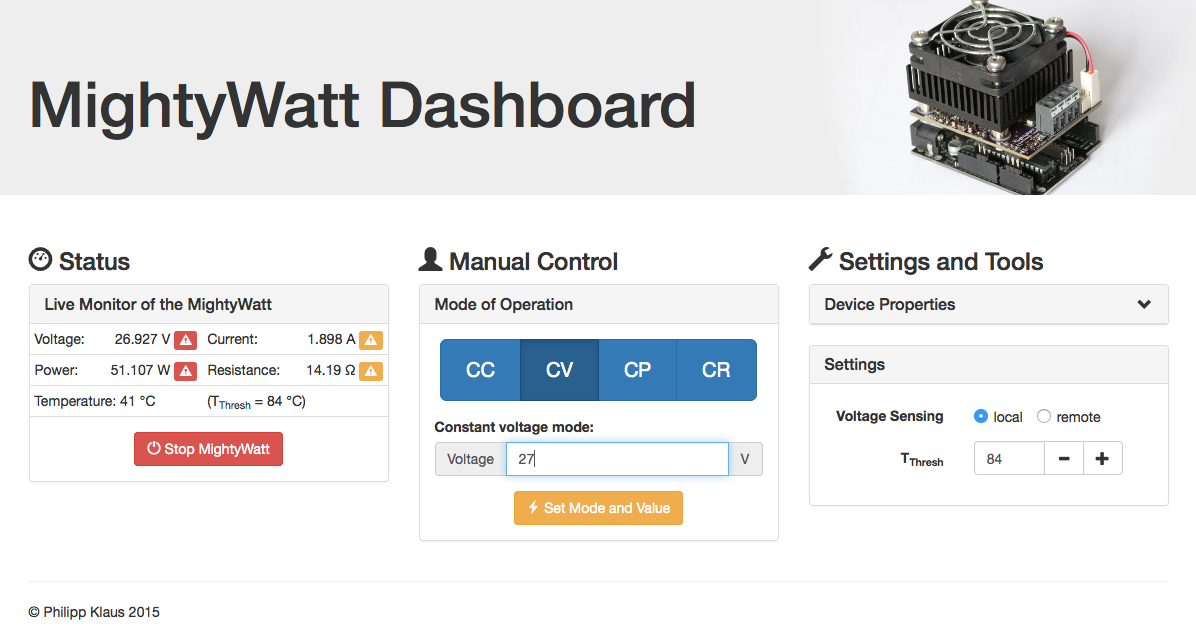
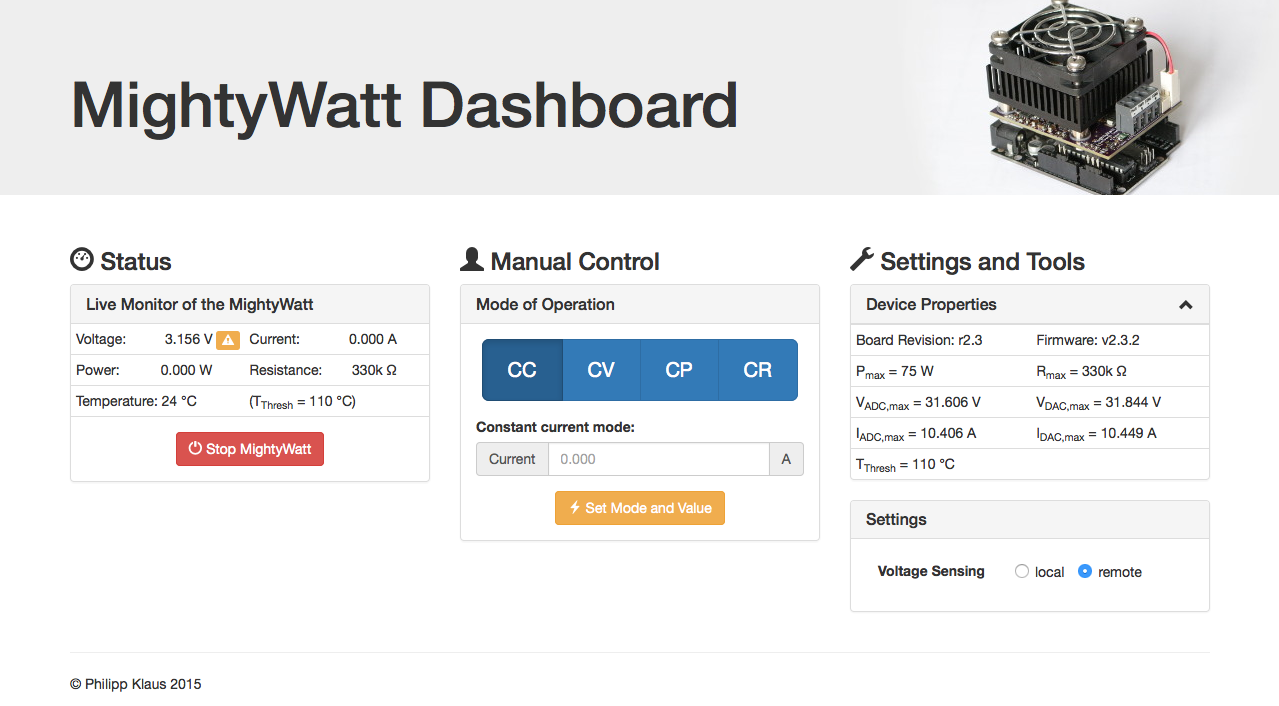
releasing v1.0
Added functionality:

- This software is now compatible with the communication protocol
  of v2.3.2 of the MightyWatt Arduino sketch.
- The log output of mw_web_client now includes the remote/local status
  in each line and the leading header lines now start with a hash tag
  (#) for easier automatic removal. → Same output format as Windows sw v1.1.0.1.

Lost functionality:

- This software is NO LONGER compatible with the communication protocol
  of the MightyWatt Arduino sketch with fw version < v2.3.1.
- Cannot set the temperature threshold anymore.
  It's now permanently set to the maximum value of 110 deg C in the fw sketch.

Bug fixes:

- The start date in the mw_web_client output now follows the MM/DD convention
  used by the MightyWatt Windows software.

diff --git a/mightywatt/webapp/static/js/control.js b/mightywatt/webapp/static/js/control.js
@@ -30,7 +30,9 @@ function setProperties() {
     $("#properties-dvmInputResistance").text(data.DVM_INPUT_RESISTANCE/1000. + 'k');
     $("#properties-maxVdac").text(data.maxVdac);
     $("#properties-maxVadc").text(data.maxVadc);
+    // temperatureThreshold
     $("#properties-temperatureThreshold").text(data.temperatureThreshold);
+    $("#temperatureThreshold").text(data.temperatureThreshold);
   })
   .fail(function() { warning('Cannot get device properties'); });
 }
@@ -110,10 +112,6 @@ function updateStatus() {
     } else {
       $("#temperatureWarning").addClass('invisible');
     }
-    // temperatureThreshold
-    $("#temperatureThreshold").text(data.temperatureThreshold);
-    if (! $("#threshold").is(":focus"))
-      $("#threshold").val(data.temperatureThreshold);
     // remote / local voltage sensing
     if (data.remoteStatus != $('#remoteSensing')[0].checked) {
       if (data.remoteStatus)
@@ -211,29 +209,6 @@ function change_mode(mode) {
 }
 
 
-function sendNewThreshold(by) {
-  var value = $('#threshold').val();
-  $.getJSON("/api/temperature-threshold/" + value);
-}
-function changeThreshold(by) {
-  $('#threshold').val(by + parseInt($('#threshold').val()));
-  sendNewThreshold();
-}
-$('#thresholdMinus').on('click', function (e) {
-  changeThreshold(-1);
-});
-$('#thresholdPlus').on('click', function (e) {
-  changeThreshold(+1);
-});
-
-//$('#threshold').on('input', function() {
-$('#threshold').blur(function() {
-  sendNewThreshold();
-});
-$('form#setting').on('submit', function(e) {
-  sendNewThreshold();
-  e.preventDefault();
-});
 //$('#setMode').on('click', function (e) {
 $('form#operationMode').on('submit', function(e) {
   var mode = $('#mode').val().toLowerCase();

diff --git a/mightywatt/__init__.py b/mightywatt/__init__.py
@@ -14,7 +14,7 @@ class MightyWatt(object):
 
     LE = "\r\n"            # line ending
     IDN_q = b"\x1F"        # identify query byte
-    IDN_r = "Mighty Watt"  # expected identify answer
+    IDN_r = "MightyWatt"  # expected identify answer
     QDC_q = b"\x1E"        # query command byte
     QDC_r = [              # meaning of the answer lines
         ('FW_VERSION', str),
@@ -26,8 +26,6 @@ class MightyWatt(object):
         ('MAX_POWER', lambda p: int(p)/1000.),
         ('DVM_INPUT_RESISTANCE', int),
         ('temperatureThreshold', int),
-        ('MAX_TEMPERATURE', int),
-        ('MIN_TEMPERATURE', int),
     ]
     STATUS = {
         0: 'READY',
@@ -36,21 +34,20 @@ class MightyWatt(object):
         4: 'POWER_OVERLOAD',
         8: 'OVERHEAT'
     }
-    UPD_fmt = '>HHBBBB'
+    UPD_fmt = '>HHBBB'
     UPD_r = [              # update response
         ('current', lambda i: i/1000.),
         ('voltage', lambda v: v/1000.),
         ('temperature', int),
-        ('temperatureThreshold', int),
         ('remoteStatus', lambda rs: bool(rs & 0x01)),
-        ('currentStatus', lambda x: x)
+        ('loadStatus', lambda x: x)
     ]
+    #          cmd   r/w    length
     MODE_CC =   0 | 0x80 | (2 << 5)
     MODE_CV =   1 | 0x80 | (2 << 5)
     MODE_CP =   2 | 0x80 | (3 << 5)
     MODE_CR =   3 | 0x80 | (3 << 5)
-    TEMPERATURE_THRESHOLD_ID = 4 | 0x80 | (1 << 5)
-    REMOTE_ID = 5 | 0x80 | (1 << 5)
+    REMOTE_ID = 4 | 0x80 | (1 << 5)
 
     identity = None
     properties = None
@@ -182,13 +179,6 @@ class MightyWatt(object):
 
     def set_local(self, local=True):
         self.set_remote(not local)
-
-    def set_temperature_threshold(self, value):
-        value = int(value)
-        assert value >= self.properties['MIN_TEMPERATURE']
-        assert value <= self.properties['MAX_TEMPERATURE']
-        self._message_queue.put(struct.pack('>BB', MightyWatt.TEMPERATURE_THRESHOLD_ID, value))
-        self.properties['temperatureThreshold'] = value
 
     @property
     def status(self):

diff --git a/mightywatt/webapp/__init__.py b/mightywatt/webapp/__init__.py
@@ -29,7 +29,6 @@ class MightyWattWebServerAPI(Bottle):
         self.route('/mode/cp/<power:float>',      callback=self._set_cp)
         self.route('/mode/cr/<resistance:float>', callback=self._set_cr)
         self.route('/voltage-sensing/<mode>',     callback=self._set_voltage_sensing)
-        self.route('/temperature-threshold/<val:float>', callback=self._set_temperature_threshold)
         self.route('/stop',                       callback=self._stop)
         self.route('/ms_since_last_update',       callback=self._ms_since_last_update)
 
@@ -58,10 +57,6 @@ class MightyWattWebServerAPI(Bottle):
     def _set_voltage_sensing(self, mode):
         assert mode in ['local', 'remote']
         self.mw.set_remote(mode == 'remote')
-        return {'success': True}
-
-    def _set_temperature_threshold(self, val):
-        self.mw.set_temperature_threshold(val)
         return {'success': True}
 
     def _stop(self):

diff --git a/setup.py b/setup.py
@@ -17,7 +17,7 @@ setup(
     author = 'Philipp Klaus',
     author_email = 'philipp.l.klaus@web.de',
     url = "http://github.com/pklaus/MightyWatt_Python/",
-    version = '0.9',
+    version = '1.0',
     description = __doc__,
     long_description = __doc__,
     license = 'GPL',

diff --git a/README.md b/README.md
@@ -2,16 +2,17 @@
 
 This is a Python package with a web interface for the [MightyWatt][],
 a great programmable electronic load for the Arduino Uno/Due.
-
-The [MightyWatt][] is an Arduino shield designed as a constant-current /
-constant-voltage load. It uses a FET in linear mode to create an
-adjustable resistance.
+Designed as an Arduino shield it is made to be operated in
+as a constant-current or constant-voltage mode.
+In addition, a constant-power and constant-resistance mode are
+implemented in software on the Arduino.
+It uses a FET in linear mode to dissipate the power.
 
 ### Installation
 
 Installing this Python package is as simple as:
 
-    pip install https://github.com/pklaus/MightyWatt_Python/archive/master.zip
+    pip install --upgrade https://github.com/pklaus/MightyWatt_Python/archive/master.zip
 
 ### Starting the web server
 
@@ -28,7 +29,7 @@ and the web page will look like this:
 You can stop the web server by pressing `[Ctrl]-[C]`. (This might take a few seconds.)
 
 The web server comes with the user interface shown above but it **also provides
-an API** to control the MightyWatt with simple HTTP request:
+an API** to control the MightyWatt with simple HTTP requests:
 
 To set constant current mode with 1.0 Amps:
 
@@ -58,23 +59,22 @@ This will ramp the current from 0 to 1.3 Amps in 600 seconds.
 It will use the remote sensing feature and stop if the voltage drops below 0.5 Volts.
 The output of the script to stdout looks like the log files of the MightyWatt Windows software:
 
-    MightyWatt Log File
-    Started on	15/03/2015	08:54:10 PM
-    Current [A]	Voltage [V]	Time since start [s]	Temperature [deg C]
-    0.000	4.864	0.000	21
-    0.000	4.860	0.098	21
-    0.000	4.864	0.196	21
-    0.000	4.860	0.295	21
-    0.000	4.867	0.393	21
-    0.000	4.862	0.491	21
-    0.000	4.868	0.590	21
+    # MightyWatt Log File
+    # Started on	06/04/2015	11:51:39 AM
+    # Current [A]	Voltage [V]	Time since start [s]	Temperature [deg C]	Local[l]/Remote[r]
+    0.000	3.153	0.000	24	r
+    0.000	3.159	0.107	24	r
+    0.000	3.155	0.209	24	r
+    0.000	3.157	0.303	24	r
+    0.000	3.159	0.410	24	r
+    0.000	3.160	0.508	24	r
     [...]
 
 ### Using the Python module without the web server
 
 If you want to create scripts using the MightyWatt and don't want to
 use the web server for some reason, you can also simply use the
-MightyWatt object to controll the load programmatically:
+MightyWatt object to control the load programmatically:
 
 ```python
 from mightywatt import MightyWatt
@@ -107,7 +107,9 @@ In addition it requires these external dependencies:
 * [pySerial](http://pyserial.sourceforge.net/)
 * [Bottle](http://bottlepy.org)
 
-Both should be automatically fetched and installed from [the Python Package Index](https://pypi.python.org/pypi).
+Both should be automatically fetched and installed from
+[the Python Package Index](https://pypi.python.org/pypi)
+during the installation of this package.
 
 ### Author
 
